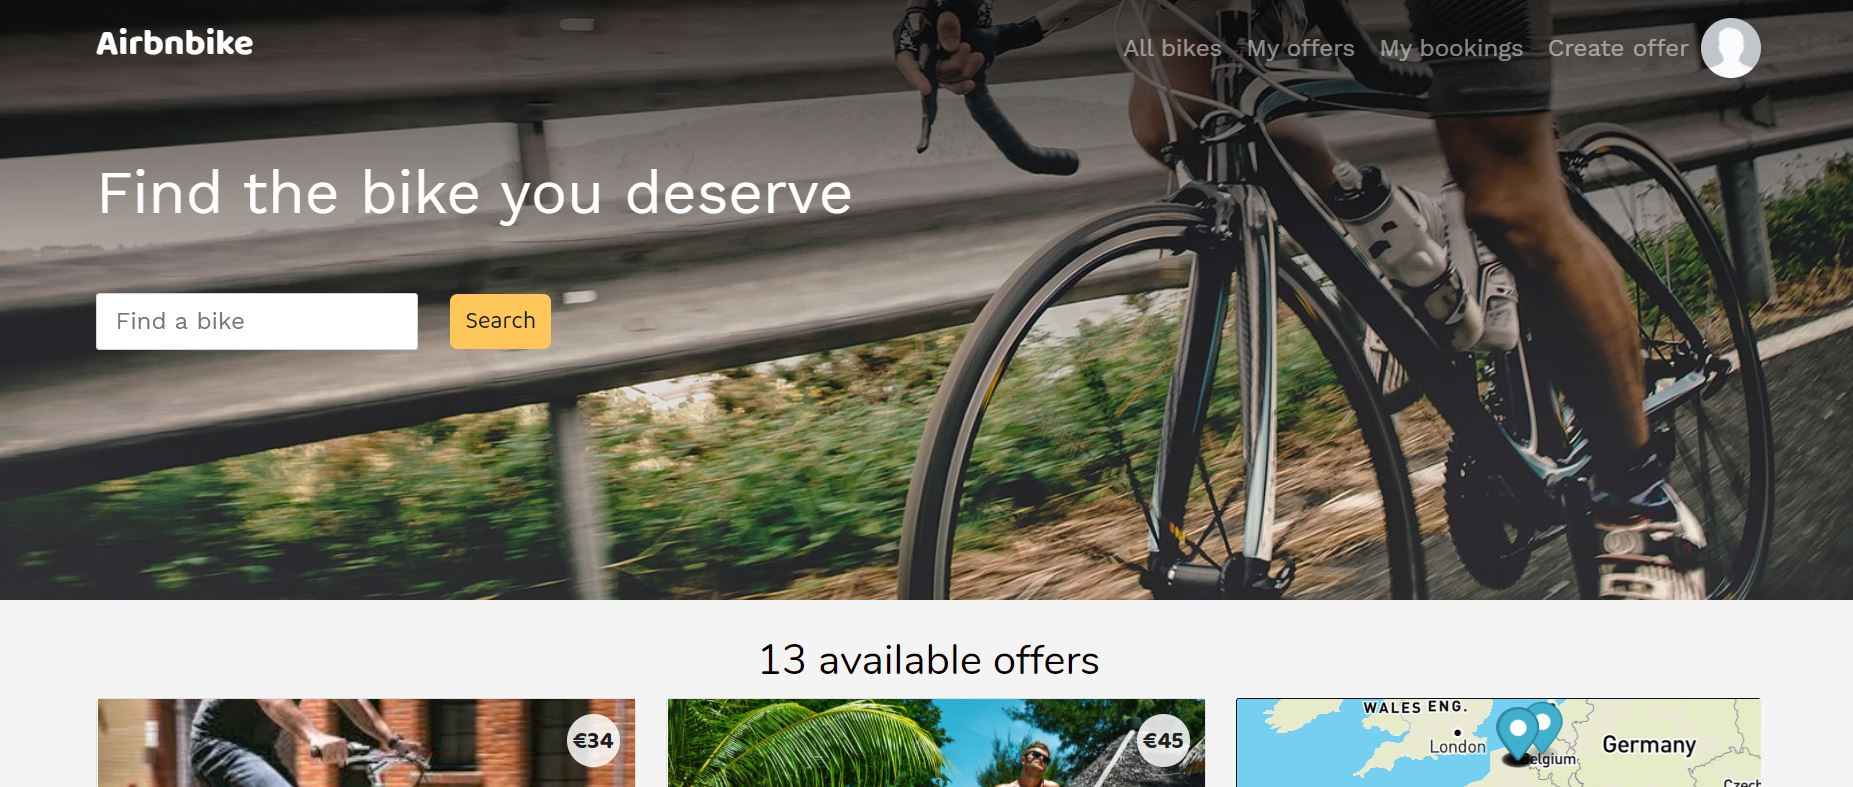
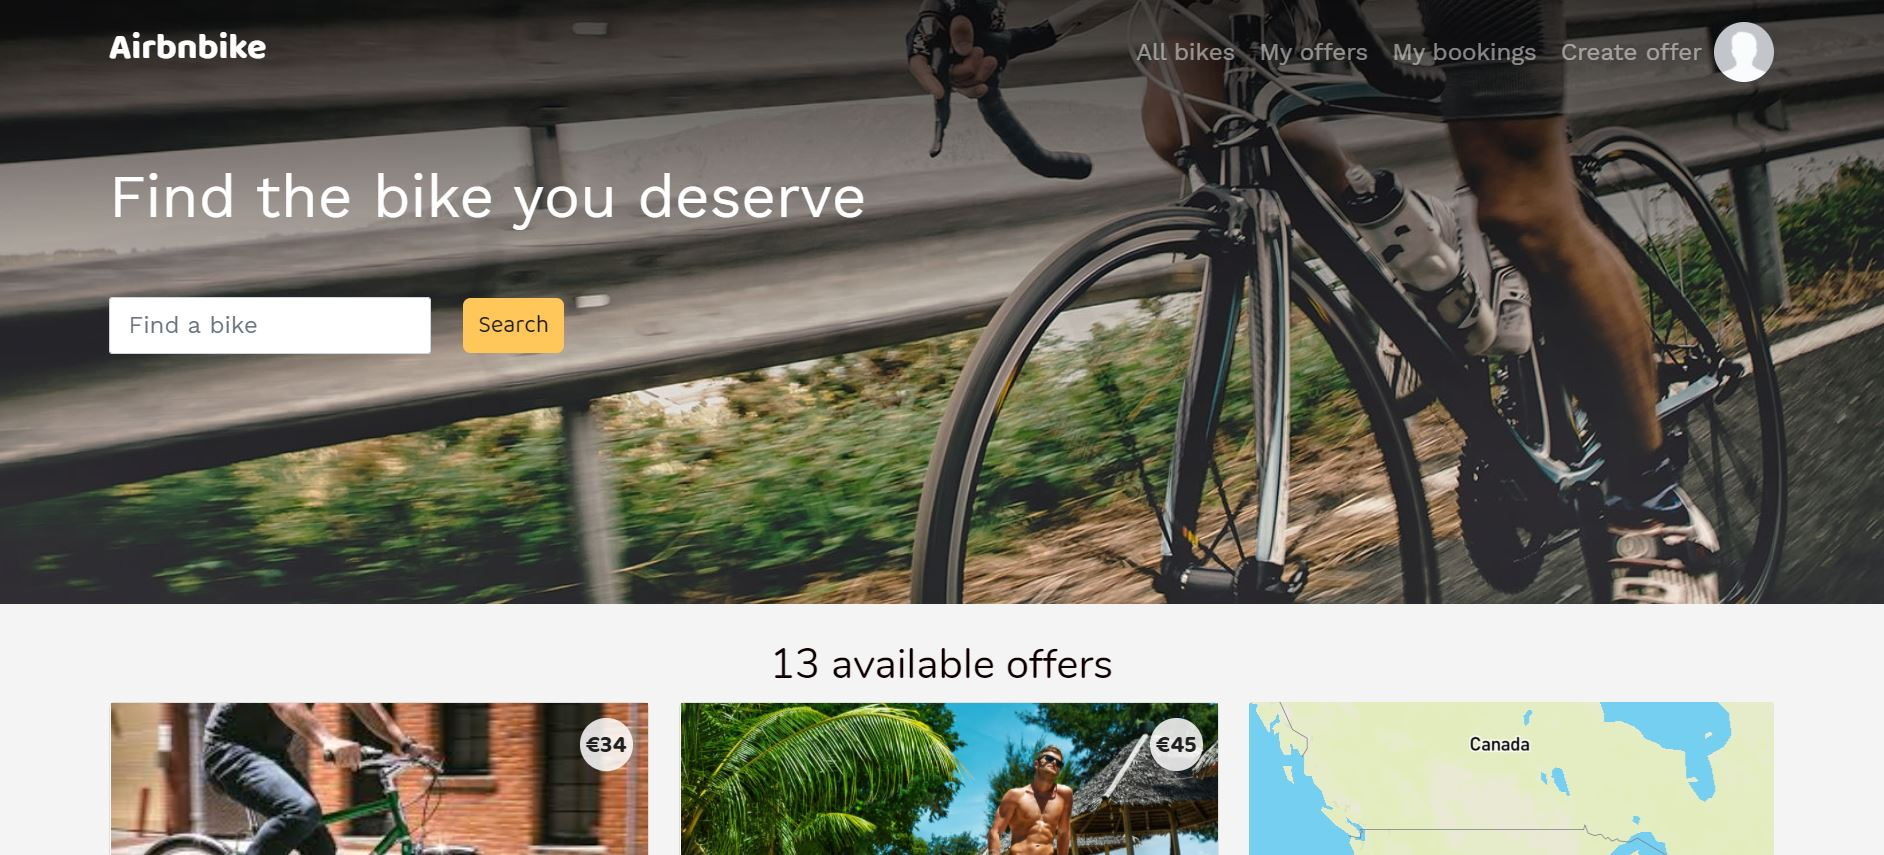
Card finish

diff --git a/app/assets/stylesheets/components/_card.scss b/app/assets/stylesheets/components/_card.scss
@@ -151,9 +151,10 @@
   align-self: flex-start;
   position: relative;
   width: 100%;
-  min-height: 200px;
+  min-height: 300px;
   transition: all 300ms ease-in-out;
   border-radius: 20px;
+  color: $light-gray;
 
   .card-project-image {
     width: --card-project-image-width;
@@ -162,7 +163,6 @@
     background-position: center center;
     background-size: cover;
     border-radius: 20px;
-    background-image: asset-url('AirbnBike.JPG');
   }
   
   .card-project-image-hovered {
@@ -175,7 +175,6 @@
     background-repeat: no-repeat;
     background-position: center center;
     background-size: cover;
-    background-image: asset-url('AirbnBike.JPG');
     height: 100%;
     position: absolute;
     width: var(--card-project-image-width);
@@ -187,19 +186,20 @@
     opacity: 0;
     position: absolute;
     display: flex;
-    justify-content: center;
+    justify-content: space-around;
     align-items: center;
     flex-direction: column;
     max-width: 50%;
-    padding: 4px;
+    height: 100%;
+    padding: 10px;
     right: 0;
     transition: all 350ms ease-in-out;
   }
 
   &:hover {
     cursor: pointer;
-    box-shadow: 0px 15px 35px rgba(227, 252, 239, 0.1),
-      0px 5px 15px rgba(0, 0, 0, 0.07);
+    box-shadow: 3px 5px 20px rgba(31, 255, 1, 0.301),
+      3px 5px 10px rgba(9, 255, 0, 0.301);
     transform: scale(1.025);
 
     .card-project-image-hovered {

diff --git a/app/assets/stylesheets/components/_index.scss b/app/assets/stylesheets/components/_index.scss
@@ -13,4 +13,23 @@
 
 .text-paragraphe {
   color: $light-gray;
+  text-align: justify;
 }
+
+.text-motivation {
+  color: $green-skill;
+  font-size: 24px;
+  font-weight: 700;
+  text-align: center;
+}
+
+.without-decoration {
+  text-decoration: none !important;
+}
+
+@media (min-width: 992px) {
+  .text-paragraphe {
+    margin : 0 10%;
+  }
+}
+

diff --git a/app/assets/stylesheets/config/_colors.scss b/app/assets/stylesheets/config/_colors.scss
@@ -16,3 +16,10 @@ $orange-skill: #d47f00;
 $pink-skill: #d400c9;
 $yellow-skill: #e2e600;
 
+.color-green {
+  color: $green-skill;
+  &:hover {
+    color: $green-skill;
+    opacity: 0.8;
+  }
+}

diff --git a/app/assets/stylesheets/components/_grid.scss b/app/assets/stylesheets/components/_grid.scss
@@ -3,6 +3,7 @@
   flex-wrap: wrap;
   grid-template-columns: repeat(2, calc(50% - 10px));
   grid-gap: 20px;
+  margin-top: 2rem;
 }
 
 .grid-col-projects {

diff --git a/db/seeds.rb b/db/seeds.rb
@@ -29,8 +29,8 @@ Skill.create!(name: "Heroku", level: "beginner", svg_path: '<path fill="#fff" d=
 
 puts "Creating some projects ..."
 
-Project.create!(name: "AirbnBike", url: "https://airbnbikes.herokuapp.com/", skill_one: "Airbnb like - Market place", skill_two: "Système de paiement - Stripe", skill_three: "Géomapping & géolocalisation - Mapbox", description: "Market place permettant de mettre en relation des cyclistes occasionnels.", client: "1er projet du Wagon")
-Project.create!(name: "HomeBoard", url: "https://home-board.herokuapp.com/", skill_one: "Chat live - Action Cable", skill_two: "Notifications en temps réel - Action Cable", skill_three: "Authentification & Authorization",  description: "Application qui permet de gérer sa vie de propriétaire et améliorer les relations de voisinages au travers de services", client: "Projet final du Wagon")
+Project.create!(name: "AirbnBike", url: "https://airbnbikes.herokuapp.com/", skill_one: "Airbnb like - Market place", skill_two: "Système de paiement - Stripe", skill_three: "Géomapping & géolocalisation - Mapbox", description: "Market place permettant de mettre en relation des cyclistes occasionnels.", client: "1er projet du Wagon", asset_url: 'AirbnBike.JPG')
+Project.create!(name: "HomeBoard", url: "https://home-board.herokuapp.com/", skill_one: "Chat live - Action Cable", skill_two: "Notifications en temps réel - Action Cable", skill_three: "Authentification & Authorization",  description: "Application qui permet de gérer sa vie de propriétaire et améliorer les relations de voisinages au travers de services", client: "Projet final du Wagon", asset_url: 'Homeboard.JPG')
 
 puts "Finished !"
 

diff --git a/db/schema.rb b/db/schema.rb
@@ -23,6 +23,7 @@ ActiveRecord::Schema.define(version: 2020_09_15_071534) do
     t.string "description"
     t.string "client"
     t.string "url"
+    t.string "asset_url"
     t.datetime "created_at", precision: 6, null: false
     t.datetime "updated_at", precision: 6, null: false
   end

diff --git a/app/controllers/pages_controller.rb b/app/controllers/pages_controller.rb
@@ -1,7 +1,7 @@
 class PagesController < ApplicationController
   def home
     # Skills in the seed
-    @skills = Skill.all
+    @skills = Skill.all.order(:name)
     @levels = ['beginner', 'intermediate', 'advanced']
     @projects = Project.all
   end

diff --git a/db/migrate/20200915071534_create_projects.rb b/db/migrate/20200915071534_create_projects.rb
@@ -8,6 +8,7 @@ class CreateProjects < ActiveRecord::Migration[6.0]
       t.string :description
       t.string :client
       t.string :url
+      t.string :asset_url
       t.timestamps
     end
   end
